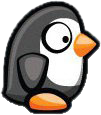
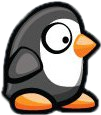
added function animationRight that does not work

diff --git a/game.html b/game.html
@@ -44,6 +44,7 @@ var canvas = document.getElementById("canvas"),
 	
     var boxes = [];
  
+    
     // dimensions
     boxes.push({
         x: width/2 + 50,
@@ -55,6 +56,18 @@ var canvas = document.getElementById("canvas"),
 	boxes.push({
         x: width/2 + 250,
         y: height - 300,
+        width: 198,
+        height: 38
+    });
+    boxes.push({
+        x: width/2 - 100,
+        y: height - 400,
+        width: 198,
+        height: 38
+    });
+    boxes.push({
+        x: width/2 - 250,
+        y: height - 480,
         width: 198,
         height: 38
     });
@@ -103,7 +116,7 @@ var canvas = document.getElementById("canvas"),
     }
     
     function drawCharacter(){
-        ctx.drawImage(move[0], player.x, player.y, player.width, player.height);
+        ctx.drawImage(move[3], player.x, player.y, player.width, player.height);
     }
 
 	function drawMirroredCharacter(){
@@ -114,6 +127,14 @@ var canvas = document.getElementById("canvas"),
 	{   
         
 	}
+    
+    function animationRight(){
+        
+        for(var i = 0; i < 4; i++){
+            ctx.clearRect(player.x, player.y, player.width, player.height);
+            ctx.drawImage(move[i], player.x, player.y, player.width, player.height);
+        }
+    }
 	
 	function updateGameWorld()
 	{
@@ -175,6 +196,9 @@ var canvas = document.getElementById("canvas"),
 		if(player.y >= height - player.height - 130){
             player.y = height - player.height - 130;
             player.jumping = false;
+        } else if (player.y <= 0) {         
+            player.y = 0;
+            player.velY = 0;
         }
         
         
@@ -195,6 +219,7 @@ var canvas = document.getElementById("canvas"),
             if (player.velX < player.speed) {             
                 player.velX++; 
                 player.mirror = true;
+                animationRight();
              }     
         }     
         if (keys[37]) {         
